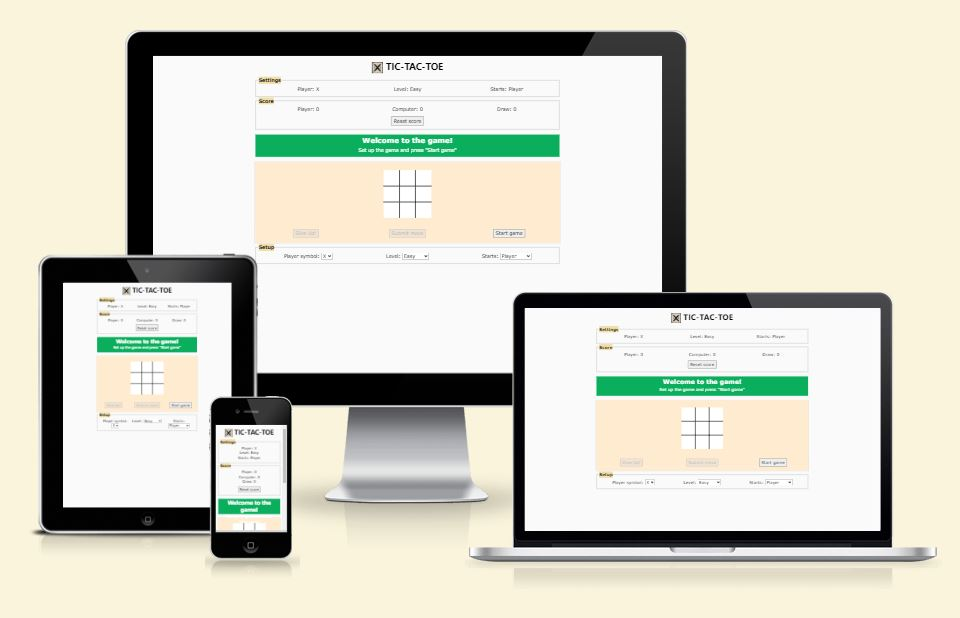
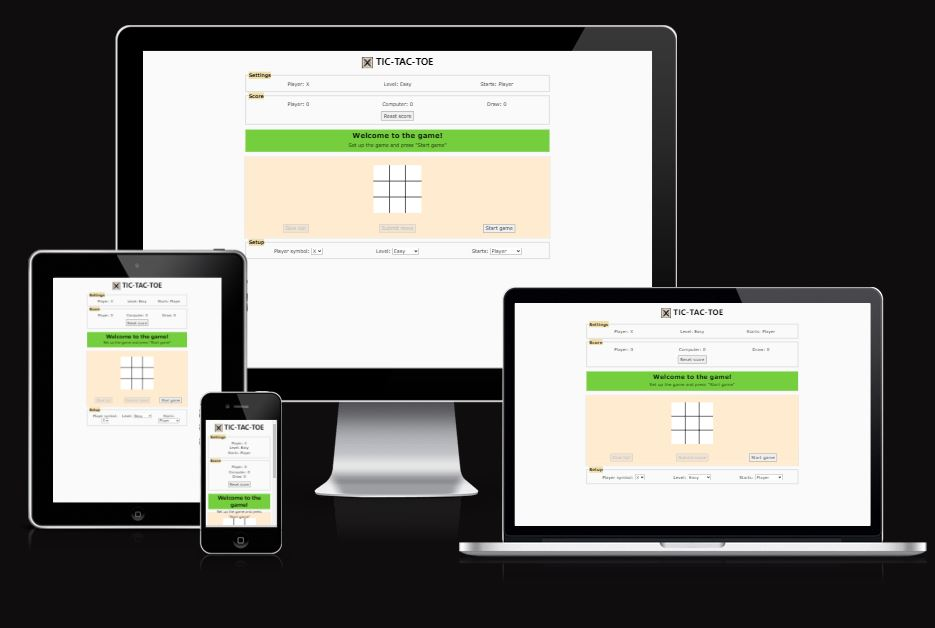
Add testing section

diff --git a/assets/js/the_game.js b/assets/js/the_game.js
@@ -357,16 +357,18 @@ function main(){
 
         // check immediate wins
         for (let key in board){
-            if (key !== "centre") {
-                line = board[key];
-                oddCells = [];
-                for (let val in line) {
-                    if (getDOMElementValue(line[val]) !== compSymbol) {
-                        oddCells.push(line[val]);
+            if (board.hasOwnProperty(key)) {
+                if (key !== "centre") {
+                    line = board[key];
+                    oddCells = [];
+                    for (let val in line) {
+                        if (getDOMElementValue(line[val]) !== compSymbol) {
+                            oddCells.push(line[val]);
+                        }
                     }
-                }
-                if (oddCells.length ===1 && getDOMElementValue(oddCells[0]) === ""){
-                    return oddCells[0];
+                    if (oddCells.length === 1 && getDOMElementValue(oddCells[0]) === "") {
+                        return oddCells[0];
+                    }
                 }
             }
         }

diff --git a/README.md b/README.md
@@ -343,6 +343,127 @@ The main content box background colour with opacity: rgba(30, 42, 48, 0.75)
 
 ### Testing
 
+Software testing, a crucial step in software development, is the process of evaluating and verifying whether a software application meets its expected requirements and functions correctly, ensuring the end product is of high quality and meets user expectations.
+
+It aims to identify defects, bugs, or missing features in contrast to the specified requirements.
+
+Essentially, it answers two critical questions:
+
+- Is the software built the right way? (does the software correctly implement specific functions?)
+- Is it the right product?” (does the software align with customer requirements or user stories?)
+
+This project uses manual testing and acceptance testing.
+
+During **manual testing**, the test operator manually checks if the system works as expected by going through all screens and simulating end-user behaviour. The user interface is also checked for look and feel during this test. In web development, web pages are tested against different screen sizes, browsers, and operation systems.
+
+The functionality of the system can be automated using test scripts. For that purpose, **automated tests** are used. Automated tests are helpful for large projects to ensure the new functionality does not change old behaviour. They increase testing speed but add extra work for writing them. One of the testing frameworks for JavaScript is Jest. Automated tests are not used for this project as the project has no continuity, and writing tests adds extra work.
+
+**Acceptance tests** ensure that all user requirements are met. In this project, they are user stories.
+
+#### Acceptance test
+
+| **Test id** | **User story id** | **User story description** | **Pass/Fail** | **Additional info**                                                                                                                                                                                       |
+| --- | --- | --- | --- |-----------------------------------------------------------------------------------------------------------------------------------------------------------------------------------------------------------|
+| TUSP-1 | USP-1 | I want to play the Tic-Tac-Toe game. | Pass | <a href="assets/readme/amiresponsive.jpg">Link</a>                                                                                                                                                        |
+| TUSP-2 | USP-2 | I want three difficulty levels in the game: Easy, Moderate, and Advanced. | Pass | <a href="assets/readme/testing/pass/difficulty_level.jpg">Link</a>                                                                                                                                        |
+| TUSP-3 | USP-3 | I want to add a Settings section where the user can choose what symbol to play, whether to start the game and what difficulty level to play. | Pass | There is a <a href="assets/readme/testing/pass/setup.jpg">Setup</a> section where user can do so. <a href="assets/readme/testing/pass/settings.jpg">Settings</a> section shows what are current settings. |
+| TUSP-4 | USP-4 | I want to count the score of the game series. | Pass | <a href="assets/readme/testing/pass/score.jpg">Score section</a> shows results of the game series.                                                                                                        |
+| TUSO-1 | USO-1 | I want to implement the Tic-Tac-Toe game using JavaScript, HTML and CSS only. | Pass | The <a href="assets/readme/testing/pass/project_structure.jpg">project structure</a> shows only html, css, js and image files.                                                                            |
+| TUSO-2 | USO-2 | I want to improve the game's accessibility by adding a 404 Error (file not found) page with a link to the game page. | Pass | <a href="404.html">404.html</a> file is added.                                                                                                                                                            |
+
+#### Page validations
+
+**_HTML validator (_**[**_https://validator.w3.org/_**](https://validator.w3.org/)**_)_**
+
+**Main page**
+
+There were some errors; see the <a href="assets/readme/testing/errors/html_errors_main_page.jpg">error link</a>.
+
+After fix: <a href="assets/readme/testing/pass/html_pass_main_page.jpg">pass link</a>.
+
+**404 page**
+
+Tested by uploading the file 404.html.
+
+There were some errors; see the <a href="assets/readme/testing/errors/html_errors_404_page.jpg">error link</a>.
+
+After fix: <a href="assets/readme/testing/pass/html_pass_404_page.jpg">pass link</a>.
+
+**_Jigsaw CSS validator (_**[**_https://jigsaw.w3.org/css-validator_**](https://jigsaw.w3.org/css-validator)**_)_**
+
+**Main page**
+
+No errors in custom CSS: <a href="assets/readme/testing/pass/css_pass_main.jpg">link</a>.
+
+There are w3.css (external library) warnings: <a href="assets/readme/testing/pass/css_warnings_w3.jpg">link</a>. I cannot fix those as it is a third-party library.
+
+**404 page**
+
+Tested by uploading the file errors.css.
+
+No errors in custom CSS: <a href="assets/readme/testing/pass/css_pass_main.jpg">link</a>.
+
+There are possible w3.css (external library) warnings (could not be validated by the link as the server returns a 404 error): link.
+
+**_Lighthouse (_**[**_https://web.dev/measure/_**](https://web.dev/measure/)**_)_**
+
+The first test gave me an accessibility of 85% (<a href="assets/readme/testing/pass/lighthouse_mobile.jpg">see image</a>). The reason was the insufficient colour contrast in the message box (<a href="assets/readme/testing/pass/lighthouse_accessibility_mobile.jpg">screenshot</a>).
+
+After changing colours in the message box and for fonts, the Lighthouse test gave me a 93% accessibility score for <a href="assets/readme/testing/pass/accessibility_mobile_pass.jpg">mobile</a> 
+and 100% for <a href="assets/readme/testing/pass/lighthouse_desktop_pass.jpg">desktop</a>.
+
+#### JavaScript validation
+
+I tested two types of JavaScript errors: formal syntax and functionality.
+
+**Formal syntax validation (**[**https://beautifytools.com/javascript-validator.php**](https://beautifytools.com/javascript-validator.php)**)**
+
+The tool showed me multiple errors. Type of those errors:
+
+1. Missing semicolon,
+2. Use the function form of "use strict",
+3. The body of a for in should be wrapped in an if statement to filter unwanted properties from the prototype,
+4. 'arrow function syntax (=>)' is only available in ES6 (use 'esversion: 6'),
+5. Unnecessary semicolon,
+6. &lt;variable&gt; is defined but never used,
+7. Functions declared within loops referencing an outer scoped variable may lead to confusing semantics. (evCellClick).
+
+Causes and solutions:
+
+1. Added semicolon,
+2. Error is to avoid using “use strict” in a global cope. Wrap all code in the main function and call that function at the end of the page.  
+   function main(){  
+   “use strict”;  
+   // code here  
+   }  
+   main();
+3. For (let key in array) loops through all properties, including inherited from the prototype. The solution is to check if the key is the array’s property with  
+   if(array.hasOwnProperty(key)){  
+   // for loop code here  
+   };
+4. Tried to use as a jshint ‘esversion:6’ in various combinations. That did not help eliminate all the errors. My solution was to change the ES6 function syntax to the old way.
+5. Deleted semicolon,
+6. Deleted variable,
+7. Error refers to event listeners for game board cells created in a loop and calling the same function. The confusion and, therefore, the error’s concern are eliminated by passing the event target to the function and then identifying which cell fired the event.
+
+**Functionality tests**
+
+Interface-related scripts are tested by clicking on the screen and seeing whether they work. No errors were found.
+
+Game logic is tested by adding code to the functions to emulate the movement state where the branch of tested code should enter.
+
+The board state is emulated by adding code for each cell before calling the function _getCalculatedComputerMoveCellId_ in the function _evBtSubmitMove_ with necessary values:
+
+_document.getElementById("cell-1").innerText = "X";_
+
+_document.getElementById("cell-2").innerText = "O";_
+
+_document.getElementById("cell-1").innerText = "";_
+
+_…_
+
+The code contained no errors. However, cell styles did not reset between games. I resolved this issue by adding the code _cell.style = null;_ in the _resetGame_ function.
+
 ### Deployment
 
 ### Acknowledgements
@@ -351,3 +472,5 @@ The main content box background colour with opacity: rgba(30, 42, 48, 0.75)
 _Word To MD_, online, https://word2md.com/. Last accessed 19/08/2024
 
 _W3Schools_, https://www.w3schools.com/. Last accessed 24/08/2024
+
+_Accessible color palette generator_, https://venngage.com/tools/accessible-color-palette-generator. Last accessed 15/09/2024
